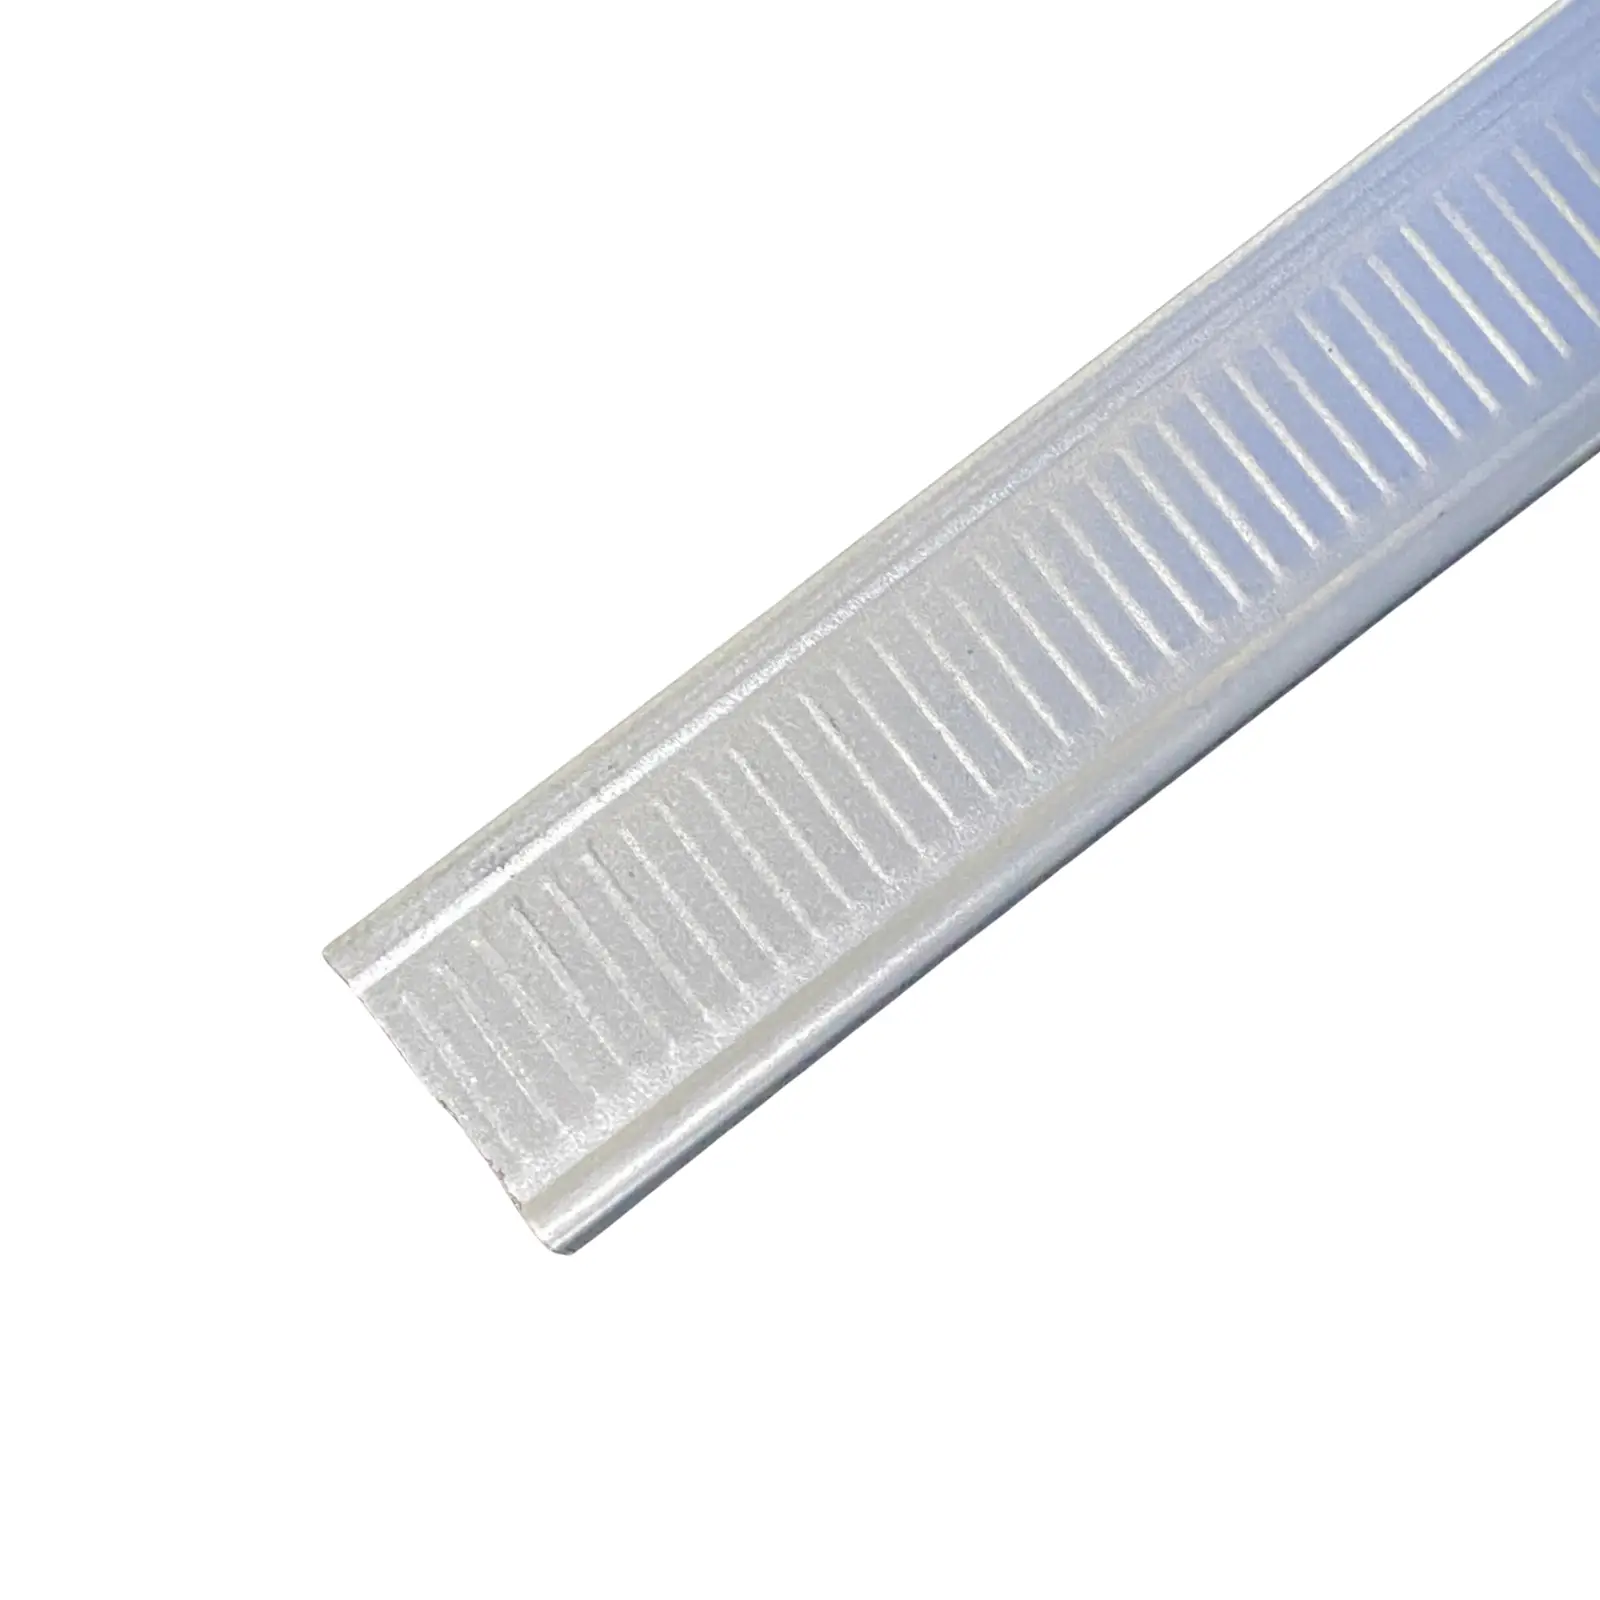
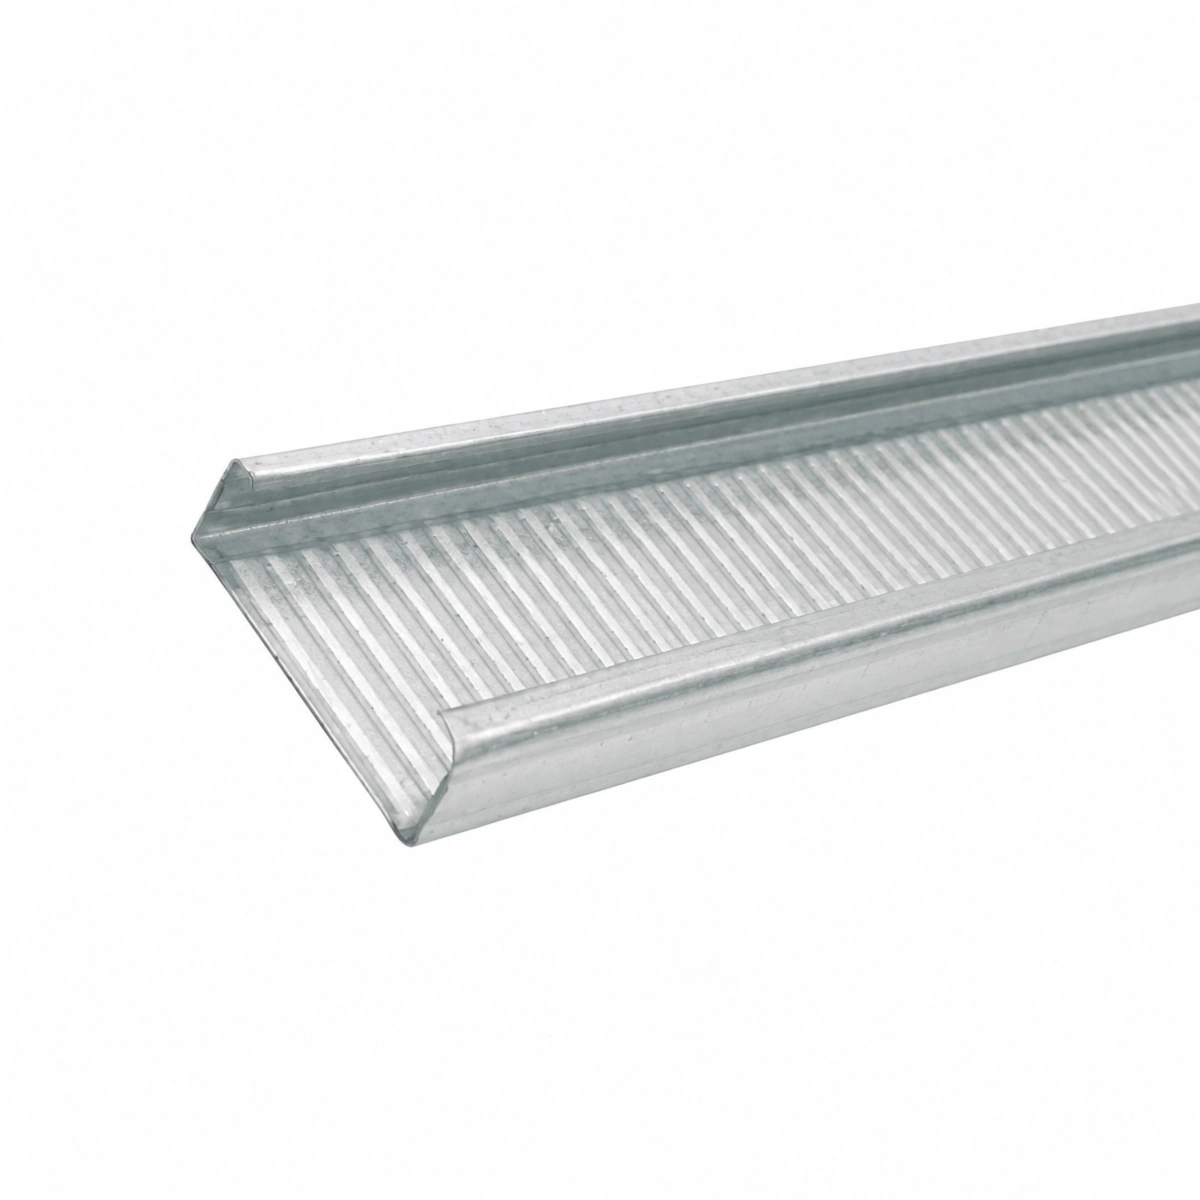
update cline

Changed region(s): [[0.1542, 0.0, 1.0, 0.8017]]

diff --git a/src/data/products.ts b/src/data/products.ts
@@ -891,54 +891,55 @@ export const products = [
   {
     id: 48,
     categoryId: 7,
-    name: "ซีลาย 0.60-0.65 กก. ขนาด 4 เมตร (เบอร์ 26)",
+    name: "โครงซีลาย เบอร์ 26 ยาว 4 เมตร (0.60-0.65 กก.)",
     slug: "ซีลาย-0.60-0.65-กก-ขนาด-4-เมตร",
     price: "ราคา 32 บาท ไม่รวม Vat 7%",
     image: "/products/อุปกรณ์ช่างฝ้า/ซีลาย.webp",
     description:
-      "โครงคร่าวกัลวาไนซ์ยึดแผ่นฝ้า งานฉาบเรียบให้ความสวยงาม ใช้สำหรับฝ้าเพดานตกแต่งอาคารภายใน ทั้งที่พักอาศัย ห้องประชุม มหาวิทยาลัย หรือสำนักงาน",
+      "ซีลาย เบอร์ 26 ยาว 4 เมตรต่อเส้น ราคาเส้นละ 32 บาท (ยังไม่รวม VAT 7%) ซีลาย คือ โครงคร่าวเหล็กชุบกัลวาไนซ์รูปตัวซี ใช้เป็นโครงยึดแผ่นยิปซัมสำหรับงานฝ้าเพดานฉาบเรียบภายในอาคาร ขนาดหน้าตัดมาตรฐานประมาณ 35-36 มม. (3.5-3.6 ซม.) ความสูงของตัวโครงประมาณ 11-15 มม. ไคสแตนดาร์ดมีซีลายให้เลือก 2 เบอร์ คือ เบอร์ 26 น้ำหนัก 0.60-0.65 กก. ต่อเส้น ราคา 32 บาท และ เบอร์ 24 น้ำหนัก 0.80-0.85 กก. ต่อเส้น ราคา 36 บาท เบอร์ 26 เป็นรุ่นที่เบาที่สุดและราคาประหยัดที่สุด เหมาะกับงานฝ้าเพดานที่ต้องการคุมงบ ใช้ได้กับบ้านพักอาศัย ห้องประชุม สำนักงาน และมหาวิทยาลัย ใช้คู่กับฉากริม 1 นิ้ว ยาว 2.40 เมตร เพื่อยึดขอบฝ้าเข้ากับผนัง มีสต็อกพร้อมส่ง ราคาโรงงาน จัดส่งทั่วประเทศ รับงานโครงการ สอบถามราคาโครงการโทร 02-415-3676 หรือ Line @kaistandard",
     features: [
-      "ทนทาน อายุการใช้งานสูง",
-      "แข็งแรง รับแรงได้มาก",
-      "น้ำหนักเบา ติดตั้งง่าย ประหยัดทั้งเวลาและค่าใช้จ่าย",
+      "ซีลาย 1 เส้น ยาว 4 เมตร",
+      "ราคาเส้นละ 32 บาท (ไม่รวม VAT 7%) ซีลายราคาประหยัดที่สุดของไคสแตนดาร์ด",
+      "ขนาดหน้าตัดประมาณ 35-36 มม. | ความสูงตัวโครงประมาณ 11-15 มม.",
+      "น้ำหนัก 0.60-0.65 กก. ต่อเส้น",
+      "เบอร์ 26 เบากว่าเบอร์ 24 (0.80-0.85 กก./เส้น ราคา 36 บาท) เหมาะกับงานคุมงบ",
+      "มีสต็อกพร้อมส่ง จัดส่งทั่วประเทศ รับงานโครงการทุกขนาด",
+    ],
+    applications: [
+      "ฝ้าเพดานฉาบเรียบบ้านพักอาศัย",
+      "ห้องประชุมและสำนักงาน",
+      "มหาวิทยาลัยและโรงเรียน",
+      "อาคารตกแต่งภายในทั่วไป",
+    ],
+    optionalServices: [
+      {
+        title: "ติดต่อขอใบเสนอราคาโครงการ",
+        description: "โปรดติดต่อพนักงานขายหรือ line:@kaistandard",
+      },
     ],
   },
   {
     id: 49,
     categoryId: 7,
-    name: "ซีลาย 0.80-0.85 กก. ขนาด 4 เมตร (เบอร์ 24)",
+    name: "โครงซีลาย เบอร์ 24 ยาว 4 เมตร (0.80-0.85 กก.)",
     slug: "ซีลาย-080-085-กก-ขนาด-4-เมตร",
     price: "ราคา 36 บาท ไม่รวม Vat 7%",
     image: "/products/อุปกรณ์ช่างฝ้า/ซีลาย.webp",
     description:
-      "โครงคร่าวกัลวาไนซ์ยึดแผ่นฝ้า ชนิดความหนาที่มากกว่า ช่วยให้งานฉาบเรียบให้ความสวยงาม เหมาะกับการตกแต่งอาคารภายใน ทั้งที่พักอาศัย มหาวิทยาลัย หรือสำนักงาน",
+      "ซีลาย เบอร์ 24 ยาว 4 เมตรต่อเส้น ราคาเส้นละ 36 บาท (ยังไม่รวม VAT 7%) ซีลาย คือ โครงคร่าวเหล็กชุบกัลวาไนซ์รูปตัวซี ใช้เป็นโครงยึดแผ่นยิปซัมสำหรับงานฝ้าเพดานฉาบเรียบภายในอาคาร ขนาดหน้าตัดมาตรฐานประมาณ 35-36 มม. (3.5-3.6 ซม.) ความสูงของตัวโครงประมาณ 11-15 มม. เบอร์ 24 หนักกว่าเบอร์ 26 อยู่ที่ 0.80-0.85 กก. ต่อเส้น จึงแข็งแรงกว่าและรับน้ำหนักแผ่นฝ้าได้ดีกว่า เหมาะกับงานที่ต้องการความมั่นใจเรื่องความแข็งแรง หากต้องการคุมงบเลือกเบอร์ 26 น้ำหนัก 0.60-0.65 กก. ต่อเส้น ราคา 32 บาท ใช้ได้กับบ้านพักอาศัย ห้องประชุม สำนักงาน และมหาวิทยาลัย ใช้คู่กับฉากริม 1 นิ้ว ยาว 2.40 เมตร เพื่อยึดขอบฝ้าเข้ากับผนัง มีสต็อกพร้อมส่ง ราคาโรงงาน จัดส่งทั่วประเทศ รับงานโครงการ สอบถามราคาโครงการโทร 02-415-3676 หรือ Line @kaistandard",
     features: [
-      "ทนทาน อายุการใช้งานสูง",
-      "แข็งแรง รับแรงได้มาก",
-      "น้ำหนักเบา ติดตั้งง่าย ประหยัดทั้งเวลาและค่าใช้จ่าย",
-    ],
-  },
-  {
-    id: 95,
-    categoryId: 7,
-    name: "ซีลาย พลัสลายน์ ตราช้าง ขนาด 4 เมตร (เบอร์ 26)",
-    slug: "ซีลาย-พลัสลายน์-ตราช้าง-ขนาด-4-เมตร",
-    price: "ราคา 54 บาท ไม่รวม Vat 7%",
-    image: "/products/อุปกรณ์ช่างฝ้า/plusline-scg.webp",
-    description:
-      "ซีลาย พลัสลายน์ ตราช้าง รุ่นประหยัด โครงคร่าวโลหะสำหรับงานฝ้าเพดานฉาบเรียบ ผลิตจากเหล็กชุบสังกะสี Hot Dip Galvanized Steel หรือเหล็กชุบสังกะสีอัลลอยด์ ตามมาตรฐาน มอก. 50-2561 หรือ JIS G3302 ชั้นเคลือบกันสนิมเทียบเท่าเหล็กชุบสังกะสี 120 ก./ตร.ม. ขนาดหน้าตัด 14x35 มม. ยาว 4000 มม. หนา 0.40 มม. น้ำหนัก 0.87 กก./เส้น มี Safety Factor ไม่ต่ำกว่า 3 เท่า บนโครงมีลูกศรบอกระยะทุก 10 ซม. ช่วยให้ติดตั้งและตรวจสอบงานได้เร็วขึ้น เหมาะกับฝ้าเพดานพื้นที่ขนาดกลางและห้องขนาดเล็ก เช่น บ้านพักอาศัย ห้องพัก คอนโด ใช้คู่กับโครงริมพลัส ขนาด 20x20x2400 มม. เลือกซีลายพลัสลายน์เมื่อต้องการคุมงบ เลือกซีลายโปรลายน์เมื่อต้องการงานฝ้าผืนใหญ่หรือฝ้าดีไซน์",
-    features: [
-      "รุ่นประหยัด คุมงบงานฝ้าได้ดีกว่ารุ่นโปรลายน์",
-      "เหล็กชุบสังกะสี Hot Dip Galvanized ชั้นเคลือบกันสนิมเทียบเท่า 120 ก./ตร.ม.",
-      "ขนาดหน้าตัด 14 x 35 มม. ยาว 4000 มม. | หนา 0.40 มม. | 0.87 กก./เส้น",
-      "Safety Factor ไม่ต่ำกว่า 3 เท่า ตามข้อมูลผู้ผลิต",
-      "บนโครงมีลูกศรบอกระยะทุก 10 ซม. ติดตั้งและตรวจสอบงานง่ายขึ้น",
-      "ใช้คู่กับโครงริมพลัส ขนาด 20 x 20 x 2400 มม.",
+      "ซีลาย 1 เส้น ยาว 4 เมตร",
+      "ราคาเส้นละ 36 บาท (ไม่รวม VAT 7%)",
+      "ขนาดหน้าตัดประมาณ 35-36 มม. | ความสูงตัวโครงประมาณ 11-15 มม.",
+      "น้ำหนัก 0.80-0.85 กก. ต่อเส้น หนักกว่าเบอร์ 26",
+      "เบอร์ 24 แข็งแรงกว่าเบอร์ 26 (0.60-0.65 กก./เส้น ราคา 32 บาท)",
+      "มีสต็อกพร้อมส่ง จัดส่งทั่วประเทศ รับงานโครงการทุกขนาด",
     ],
     applications: [
       "ฝ้าเพดานฉาบเรียบบ้านพักอาศัย",
-      "ฝ้าเพดานห้องพักและคอนโด",
-      "ฝ้าเพดานพื้นที่ขนาดกลางถึงห้องขนาดเล็ก",
+      "ห้องประชุมและสำนักงาน",
+      "มหาวิทยาลัยและโรงเรียน",
+      "อาคารตกแต่งภายในทั่วไป",
     ],
     optionalServices: [
       {
@@ -976,40 +977,28 @@ export const products = [
       },
     ],
   },
-  {
+ {
     id: 50,
     categoryId: 7,
-    name: "ฉากริม 1 นิ้ว ยาว 2.40 เมตร",
+    name: "ฉากริมฝ้า 1 นิ้ว ยาว 2.40 เมตร",
     slug: "ฉากริม-1-นิ้ว-ยาว-240-เมตร",
     price: "ราคา 16 บาท ไม่รวม Vat 7%",
     image: "/products/อุปกรณ์ช่างฝ้า/ฉากริม.webp",
-    description: "โครงคร่าวขอบฝ้าเพดานเพื่อความสวยงามและคมชัดกับงานฝ้าเพดาน",
-    features: [
-      "ทนทาน อายุการใช้งานสูง",
-      "แข็งแรง รับแรงได้มาก",
-      "น้ำหนักเบา ติดตั้งง่าย ประหยัดทั้งเวลาและค่าใช้จ่าย",
-    ],
-  },
-  {
-    id: 97,
-    categoryId: 7,
-    name: "โครงริมพลัส ตราช้าง ขนาด 2.4 เมตร (เบอร์ 26)",
-    slug: "โครงริมพลัส-ตราช้าง-ขนาด-2-4-เมตร",
-    price: "ราคา 20 บาท ไม่รวม Vat 7%",
-    image: "/products/อุปกรณ์ช่างฝ้า/plus-wall-angle-scg.webp",
     description:
-      "โครงริมพลัส ตราช้าง โครงคร่าวโลหะสำหรับยึดริมฝ้าเพดานฉาบเรียบเข้ากับผนัง รุ่นประหยัด ผลิตจากเหล็กรีดเย็นชุบสังกะสี Hot Dip Galvanized Steel กันสนิมได้ดี เหมาะกับความชื้นสูงในประเทศไทย ขนาด 20x20x2400 มม. หนา 0.40 มม. (เบอร์ 26) น้ำหนัก 0.30 กก./เส้น ขายเป็นเส้น ใช้คู่กับซีลาย พลัสลายน์ ตราช้าง เพื่อให้ได้ระบบฝ้าฉาบเรียบครบชุดในระดับราคาประหยัด เหมาะกับฝ้าเพดานบ้านพักอาศัย ห้องพัก และคอนโด",
+      "ฉากริม ยาว 2.40 เมตรต่อเส้น ราคาเส้นละ 16 บาท (ยังไม่รวม VAT 7%) ฉากริม คือ โครงคร่าวรูปตัวแอลที่ยึดตามแนวผนังรอบห้อง ใช้เป็นตัวรับขอบฝ้าเพดานให้ได้แนวตรงและขอบฝ้าคมสวยงาม ขนาด 1 นิ้ว ยาว 2.40 เมตรต่อเส้น ติดตั้งเป็นขั้นตอนแรกของงานฝ้าเพดาน โดยยิงยึดกับผนังรอบห้องก่อน แล้วจึงวางโครงซีลายพาดเข้ามาด้านใน ใช้คู่กับโครงซีลาย ยาว 4 เมตร ทั้งเบอร์ 26 ราคา 32 บาท และเบอร์ 24 ราคา 36 บาท ใช้ได้ทั้งงานฝ้าเพดานฉาบเรียบและฝ้าทีบาร์ เหมาะกับบ้านพักอาศัย ห้องประชุม สำนักงาน และมหาวิทยาลัย คำนวณจำนวนเส้นที่ต้องใช้จากความยาวรอบห้องหารด้วย 2.40 เมตร มีสต็อกพร้อมส่ง ราคาโรงงาน จัดส่งทั่วประเทศ รับงานโครงการ สอบถามราคาโครงการโทร 02-415-3676 หรือ Line @kaistandard",
     features: [
-      "รุ่นประหยัด คุมงบงานริมฝ้าได้ดีกว่ารุ่นริมโปร",
-      "เหล็กรีดเย็นชุบสังกะสี Hot Dip Galvanized กันสนิม",
-      "ขนาด 20 x 20 x 2400 มม. | หนา 0.40 มม. (เบอร์ 26) | 0.30 กก./เส้น",
-      "ใช้ยึดริมฝ้าเข้ากับผนัง ให้ขอบฝ้าเรียบตรงได้แนว",
-      "ใช้คู่กับซีลาย พลัสลายน์ ตราช้าง เป็นระบบเดียวกัน",
+      "ฉากริม 1 เส้น ยาว 2.40 เมตร",
+      "ราคาเส้นละ 16 บาท (ไม่รวม VAT 7%)",
+      "ขนาด 1 นิ้ว สำหรับยึดขอบฝ้าเพดานเข้ากับผนัง",
+      "ติดตั้งเป็นขั้นตอนแรกของงานฝ้า ก่อนวางโครงซีลาย",
+      "ใช้ได้ทั้งงานฝ้าฉาบเรียบและฝ้าทีบาร์",
+      "มีสต็อกพร้อมส่ง จัดส่งทั่วประเทศ รับงานโครงการทุกขนาด",
     ],
     applications: [
-      "งานริมฝ้าเพดานฉาบเรียบบ้านพักอาศัย",
-      "งานริมฝ้าห้องพักและคอนโด",
-      "งานริมฝ้าพื้นที่ขนาดกลางถึงห้องขนาดเล็ก",
+      "ขอบฝ้าเพดานฉาบเรียบบ้านพักอาศัย",
+      "ขอบฝ้าห้องประชุมและสำนักงาน",
+      "ขอบฝ้ามหาวิทยาลัยและโรงเรียน",
+      "งานฝ้าเพดานภายในอาคารทั่วไป",
     ],
     optionalServices: [
       {
